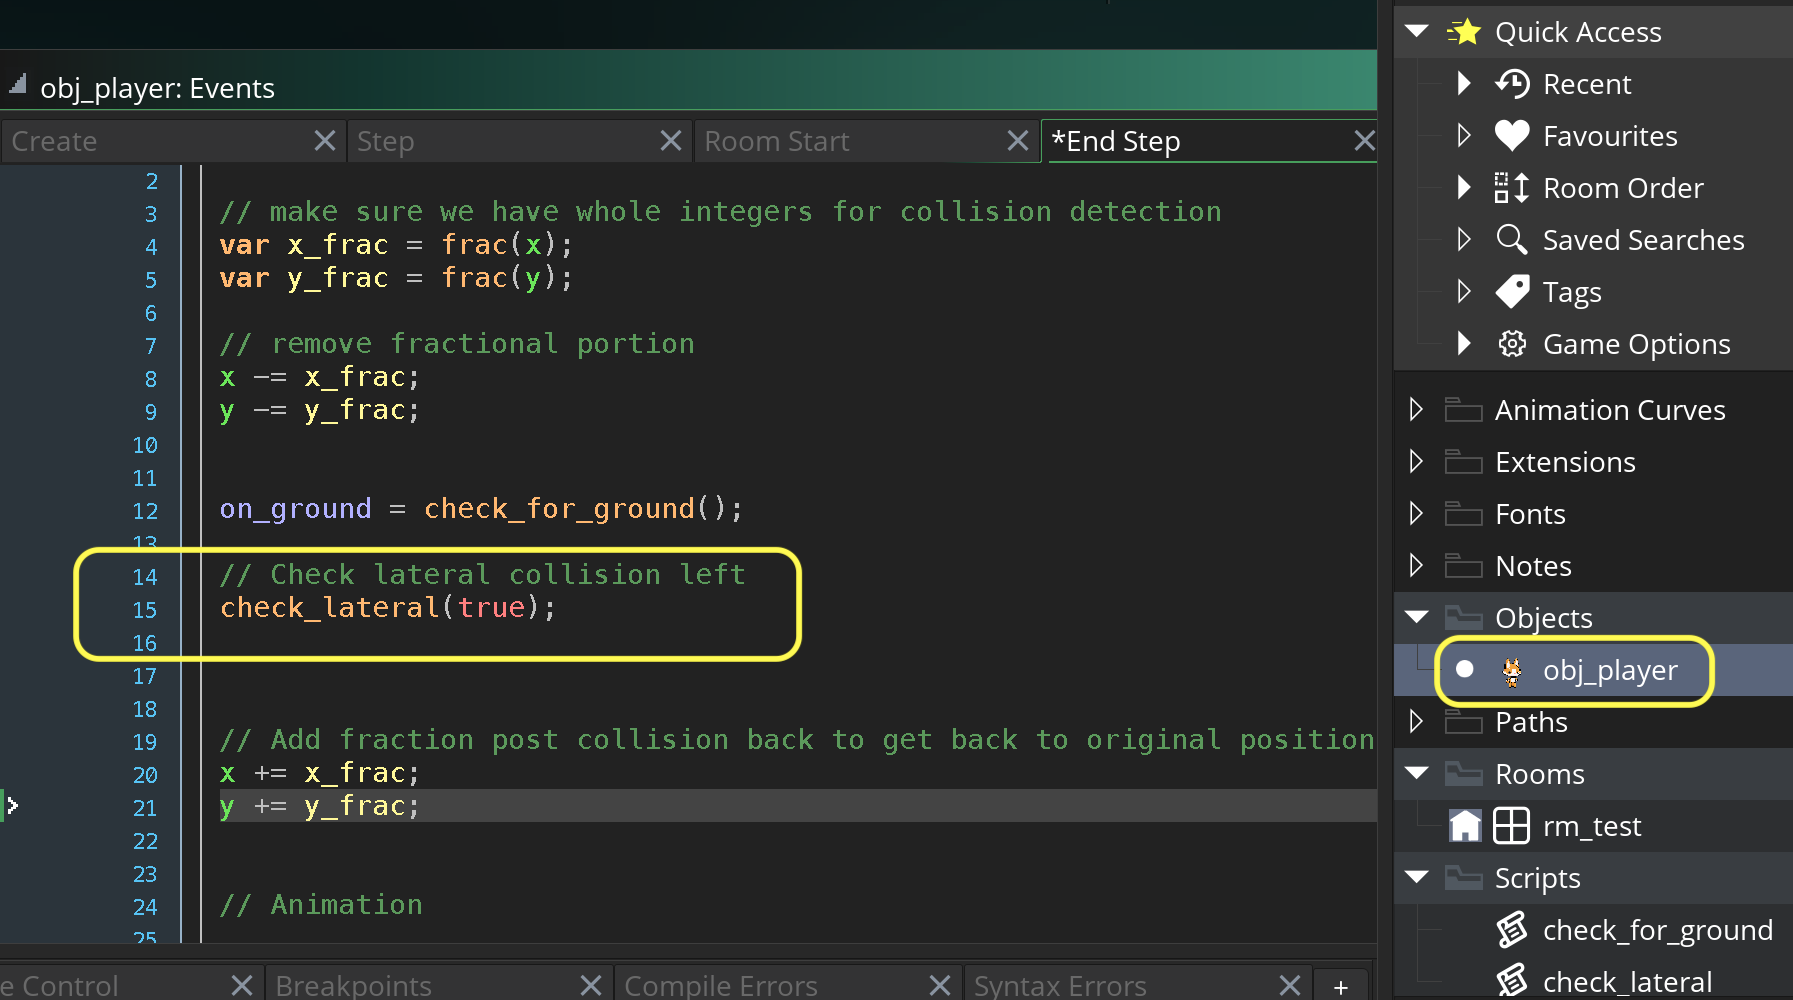
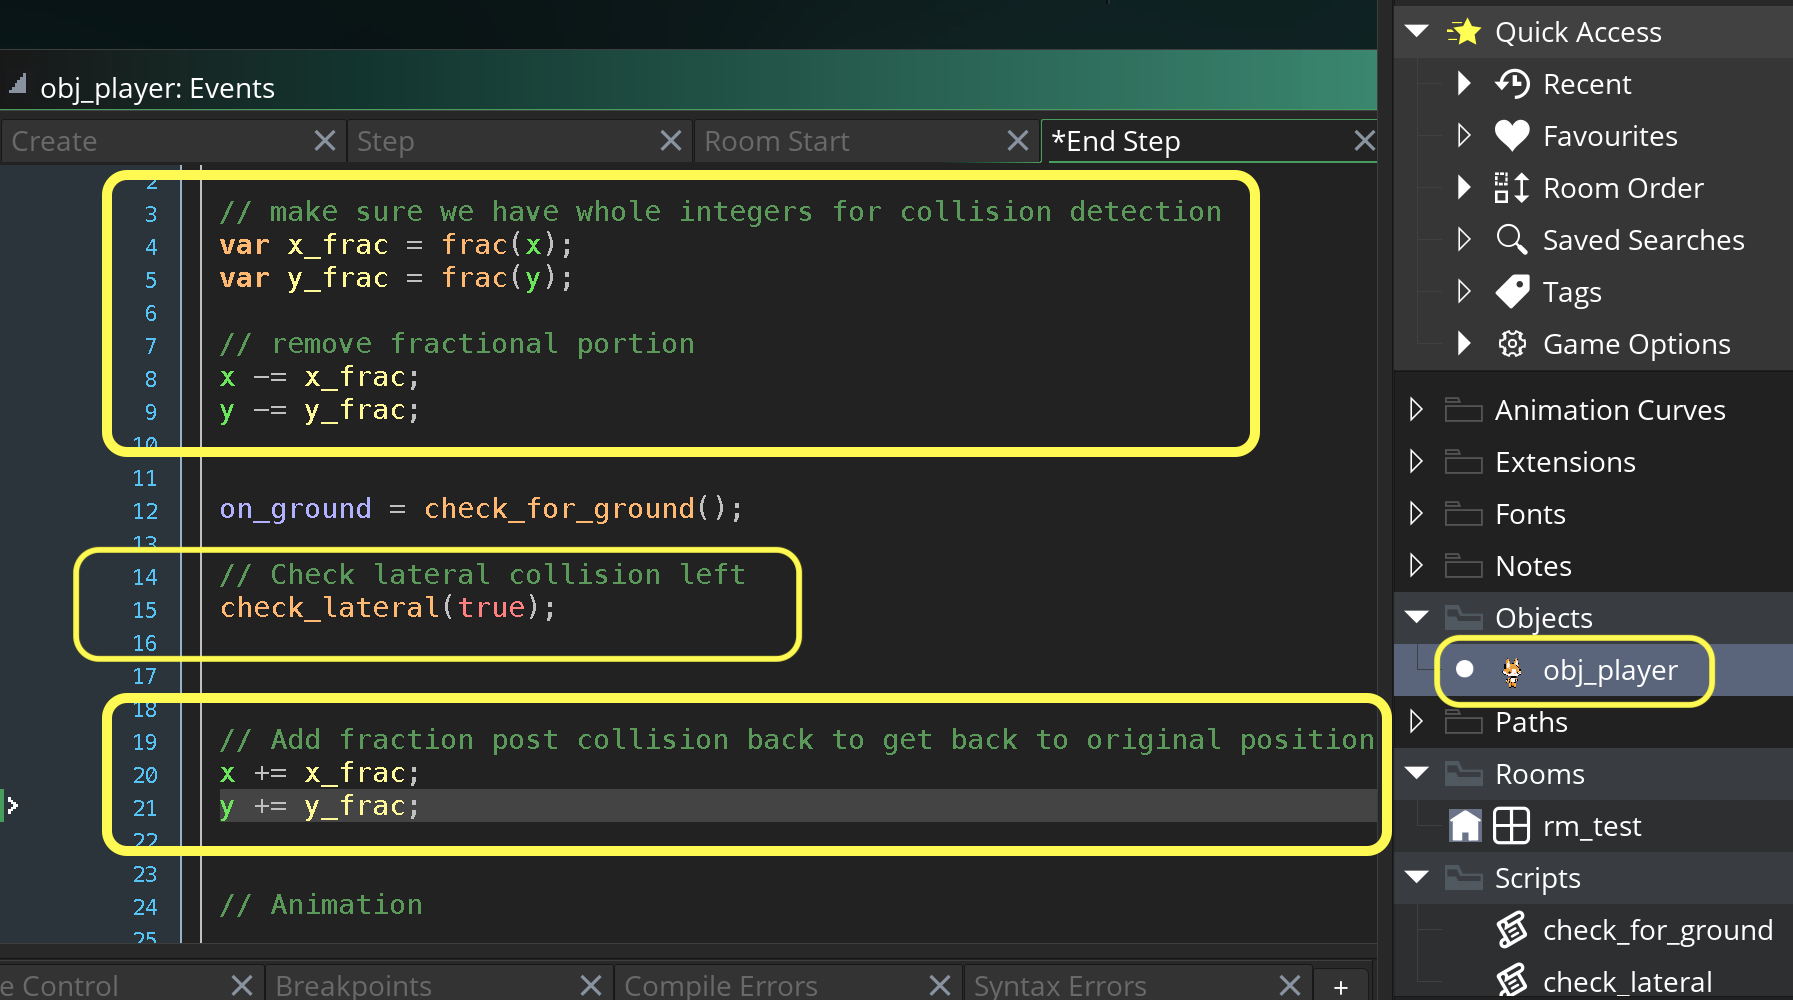
converting to perforce

diff --git a/lateral-collision/README.md b/lateral-collision/README.md
@@ -99,7 +99,9 @@ Go back to `check_lateral` **Script** and add a check to make sure that you are 
 
 ##### `Step 11.`\|`PLTFRMR`| :large_blue_diamond: :small_blue_diamond: 
 
-Now we need to call the function.  So open **obj_player | End Step** event and a call to the `check_lateral(check_left)` function right after you check for the ground collision.
+We need to make sure that the collision detection is on whole numbers (there are no fractional pixels).  So we will remove the fractional portion of the values, then re-add them back after the collision detection.
+
+Now we need to call the function.  So open **obj_player | End Step** event and a call to the `check_lateral(check_left)` function right after you check for the ground collision between the fractional adjustements.
 
 ![call check_lateral function](images/checkLeftPlayer.png)
 
@@ -139,7 +141,9 @@ https://user-images.githubusercontent.com/5504953/157440757-4015332d-77d0-404d-a
 
 ##### `Step 16.`\|`PLTFRMR`| :large_blue_diamond: :small_orange_diamond:   :small_blue_diamond: 
 
-Lets alter the animation logic so that the player switches between running and idling.  They both only run if the player is on the ground and the player idles when it is not moving horizontally and is running when moving.  Lets alter this logic in **obj_player | End Step** event at the bottom **after** the collision detection.
+Lets alter the animation logic so that the player switches between running and idling.  They both only run if the player is on the ground and the player idles when it is not moving horizontally and is running when moving. We should be doing this after the collisions are resolved.  So delete the facing angle in the **obj_player | Step** event.
+
+ Lets add this logic in **obj_player | End Step** event at the bottom **after** the collision detection.
 
 ![add run anims](images/runAnim.png)
 
